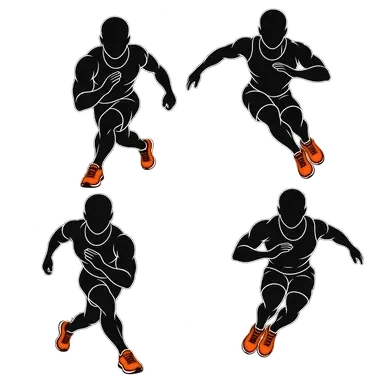
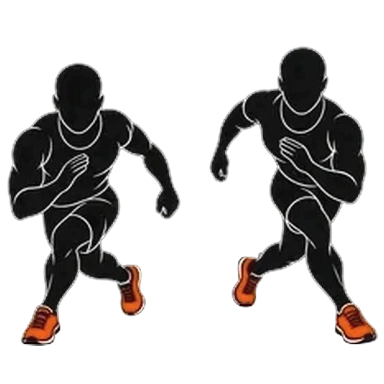
Suche: Kategorie-Chips und Zwischenüberschriften im Übungs- und Workoutkatalog; Skater Jumps und Jump Lunges auf zwei Posen gekürzt (Fassung 2026-10-31-3)

diff --git a/js/05-suche.js b/js/05-suche.js
@@ -8,7 +8,7 @@ var suchKat = "alle", suchZonen = [], suchKoerperAuf = false;   // Körper-Filte
 /* Filter der Suche (Karte wie beim Bauen eines Workouts, Bild oben entfällt): dieselben Attribute und dieselbe Logik wie im Workout-Filter (studioFilterHTML): Trainingsart (studio | cali | body, TRAIN_ARTEN)
    und Ausrüstung (AUSR_IDS), jeweils Mehrfachwahl, leer = alles. Bewusst nur im Speicher (suchTrain/suchAusr) und NICHT in settings.stTrain/stAusr,
    damit eine Suche den Filter im Workout-Bereich nicht verstellt. Die Chips sind kompakt (Text statt Fotokarten). */
-var suchTrain = [], suchAusr = [];
+var suchTrain = [], suchAusr = [], suchLib = [];   // suchLib: Kategorie-Chips (LIB_CATS) im Übungs- und Workoutkatalog, wie beim Bauen eines BLOCs
 var SUCH_KATEGORIEN = ["alle", "uebungen", "workouts", "timer", "bereiche", "erstellen"];
 function suchKategorie(gruppe){
   if(gruppe === t("libExercises")) return "uebungen";
@@ -39,12 +39,14 @@ function gesamtEintraege(){
     add(t("workouts"), tplText(lw.name), t("exCount", { n:exs.length })+" · "+fmtDauerKurz(workoutDuration(libWorkoutRun(lw))), woSearchText("", exs), function(){ go("#cover/lib/"+lw.id); });
     if(!libIstWarmDehn(lw)){ l[l.length-1].welt = katWoOrt(exs); }   // Freiluft blau, Fitnessstudio orange (Aufwärmen und Dehnen gehören zu Mobility & Stretch)
     l[l.length-1].exs = exs.map(function(ex){ return ex.id; });   // für den Ausrüstungs-Filter
+    l[l.length-1].cat = lw.focus;
   });
   (state.db.myWorkouts || []).map(normMy).forEach(function(mw){
     var exs = mw.items.map(function(it){ return findExercise(it.ex); }).filter(Boolean);
     add(t("mineMy"), mw.name, t("exCount", { n:exs.length }), woSearchText("", exs), function(){ go("#mybuild/"+mw.id); });
     if(!mw.ws){ l[l.length-1].welt = katWoOrt(exs); }
     l[l.length-1].exs = exs.map(function(ex){ return ex.id; });
+    l[l.length-1].cat = "mix";
   });
   // Übungen
   EXERCISES.forEach(function(ex){
@@ -54,6 +56,7 @@ function gesamtEintraege(){
       else go(ex.custom ? "#exedit/"+ex.id : "#playex/"+ex.id);
     });
     l[l.length-1].ex = ex.id;   // für den Körper-Filter der Suche
+    l[l.length-1].cat = ex.cats[0];
   });
   // Timer-Workouts und Blöcke
   state.db.workouts.forEach(function(w){ add(t("mineTimer"), w.name || t("untitled"), "", "", function(){ go("#workout/"+w.id); }); });
@@ -79,6 +82,7 @@ function renderSearch(){
   var alle = gesamtEintraege();
   suchZonen = kkNorm(suchZonen);   // nach dem Umschalten der Detailansicht passen
   /* Trefferliste nach Kategorie, Filter und Suchwort (ohne Suchwort zeigt eine gewählte Kategorie oder ein Filter alle passenden Einträge) */
+  function katalogIst(){ return suchKat === "uebungen" || suchKat === "workouts"; }
   function gewaehltIst(){ return suchKat !== "alle" || suchZonen.length > 0 || suchTrain.length > 0 || suchAusr.length > 0; }
   function filtern(){
     var w = suchNorm(gesamtQuery), zon = suchZonen.length > 0, tr = suchTrain.length > 0, au = suchAusr.length > 0;
@@ -98,6 +102,7 @@ function renderSearch(){
         }
         else return false;
       }
+      if(suchLib.length && katalogIst() && (e.ex ? !findExercise(e.ex).cats.some(function(c){ return suchLib.indexOf(c) > -1; }) : (e.exs ? suchLib.indexOf(e.cat) < 0 : true))) return false;
       return (suchKat === "alle" || e.k === suchKat) && (!w || suchPasst(e.text, gesamtQuery));
     });
   }
@@ -106,6 +111,7 @@ function renderSearch(){
     '<div class="lib-chips sr-kats">'+SUCH_KATEGORIEN.map(function(k){
       return '<button type="button" class="lib-chip'+(suchKat === k ? ' active' : '')+'" data-srkat="'+k+'" aria-pressed="'+(suchKat === k)+'">'+esc(t("srKat_"+k))+'</button>';
     }).join("")+'</div>'+
+    (katalogIst() ? catChipsHTML(suchLib, "data-srlib") : '')+
     suchFilterKarteHTML(filtern().length)+
     searchHTML(gesamtQuery, "gs", t("srPh")) +
     tippZeileHTML("suche", "tippUebung")+'<div id="gs-res"></div><div style="height:40px"></div>';
@@ -121,10 +127,18 @@ function renderSearch(){
     // je Gruppe zuerst die Treffer im Namen, danach die über Übungen/Hinweise (stabil)
     treffer = treffer.map(function(e, i){ return { e:e, i:i }; }).sort(function(a, b){
       return reihe.indexOf(a.e.g) - reihe.indexOf(b.e.g) || a.e.n - b.e.n || a.i - b.i; }).map(function(o){ return o.e; });
-    var kacheln = "", zeilen = "";   // Air-, Studio- und Dehnübungen erscheinen als quadratische Kacheln wie unter Air › Übungen (zuerst), alles andere als Zeile
+    /* Im Übungs- und Workoutkatalog ohne Suchwort: je Kategorie (Cardio, Gewicht, Bodyweight …) unter einer Zwischenüberschrift, Reihenfolge wie die Kategorie-Chips */
+    var unter = katalogIst() && !w && suchLib.length !== 1;
+    if(unter){
+      var rang = function(e){ var r = LIB_CATS.map(function(c){ return c.id; }).indexOf(e.cat); return r < 0 ? 99 : r; };
+      treffer = treffer.map(function(e, i){ return { e:e, i:i }; }).sort(function(a, b){
+        return reihe.indexOf(a.e.g) - reihe.indexOf(b.e.g) || rang(a.e) - rang(b.e) || a.i - b.i; }).map(function(o){ return o.e; });
+    }
+    var kacheln = "", zeilen = "", katAlt = null;   // Air-, Studio- und Dehnübungen erscheinen als quadratische Kacheln wie unter Air › Übungen (zuerst), alles andere als Zeile
     function raster(){ if(kacheln) html += '<div class="fig-grid">'+kacheln+'</div>'; html += zeilen; kacheln = ""; zeilen = ""; }
     treffer.forEach(function(e, i){
-      if(e.g !== gruppe){ raster(); gruppe = e.g; n = 0; html += '<div class="section-title">'+esc(gruppe)+'</div>'; }
+      if(e.g !== gruppe){ raster(); gruppe = e.g; n = 0; katAlt = null; html += '<div class="section-title">'+esc(gruppe)+'</div>'; }
+      if(unter && e.cat !== katAlt){ raster(); katAlt = e.cat; html += '<div class="sr-unter">'+esc(catName(e.cat))+'</div>'; }
       if(!gewaehlt && ++n > 12) return;   // je Gruppe die ersten zwölf; genauer tippen grenzt ein (mit gewählter Kategorie alle)
       var ex = e.ex && findExercise(e.ex);
       if(ex && (fuerAir(ex) || ex.main === "stretch") && ILLU[ex.id]){ kacheln += ex.main === "stretch" ? '<div style="display:contents;--bereich:var(--ws-color)">'+libExKachel(ex)+'</div>' : libExKachel(ex); return; }   // Dehnübungen in der Farbe von Mobility & Stretch
@@ -162,15 +176,15 @@ function renderSearch(){
   feld.addEventListener("input", function(){ gesamtQuery = feld.value; zeigen(); });
   app.querySelectorAll("[data-srkat]").forEach(function(b){
     b.addEventListener("click", function(){
-      suchKat = b.getAttribute("data-srkat");
-      app.querySelectorAll("[data-srkat]").forEach(function(x){ var an = x === b; x.classList.toggle("active", an); x.setAttribute("aria-pressed", String(an)); });
-      zeigen();
+      suchKat = b.getAttribute("data-srkat"); suchLib = [];
+      renderSearch();   // die Kategorie-Chips des Katalogs kommen und gehen mit der Auswahl
     });
   });
   // Filterkarte: auf/zu, zurücksetzen, Trainingsart, Ausrüstung, Muskel (Chips und Figur); nach jedem Antippen neu zeichnen wie beim Workout-Filter
   app.querySelectorAll("[data-srtoggle]").forEach(function(b){ b.addEventListener("click", function(){ suchFilterAuf = !suchFilterAuf; renderSearch(); }); });
   var zur = app.querySelector("[data-srreset]");
   if(zur) zur.addEventListener("click", function(){ suchTrain = []; suchAusr = []; suchZonen = []; renderSearch(); });
+  app.querySelectorAll("[data-srlib]").forEach(function(b){ b.addEventListener("click", function(){ var c = b.getAttribute("data-srlib"); suchLib = c === "all" ? [] : selToggle(suchLib, c); renderSearch(); }); });
   app.querySelectorAll("[data-srtrain]").forEach(function(b){ b.addEventListener("click", function(){ suchTrain = selToggle(suchTrain, b.getAttribute("data-srtrain")); renderSearch(); }); });
   app.querySelectorAll("[data-srausr]").forEach(function(b){ b.addEventListener("click", function(){ suchAusr = selToggle(suchAusr, b.getAttribute("data-srausr")); renderSearch(); }); });
   app.querySelectorAll("[data-srzone]").forEach(function(b){ b.addEventListener("click", function(){ suchZonen = selToggle(suchZonen, b.getAttribute("data-srzone")); renderSearch(); }); });

diff --git a/figuren-pruefliste.html b/figuren-pruefliste.html
@@ -13,8 +13,8 @@
 <meta name="apple-mobile-web-app-status-bar-style" content="black-translucent">
 <meta name="apple-mobile-web-app-title" content="BLOC">
 <!-- ?v= gehört zu FASSUNG in sw.js: bei jeder neuen Fassung beide ändern -->
-<link rel="stylesheet" href="./app.css?v=2026-10-31-2">
-<link rel="stylesheet" href="./layout-new.css?v=2026-10-31-2">
+<link rel="stylesheet" href="./app.css?v=2026-10-31-3">
+<link rel="stylesheet" href="./layout-new.css?v=2026-10-31-3">
 </head>
 <style>
 body{ background:#16161a; color:#eee; font:14px/1.4 system-ui,sans-serif; padding:12px; }
@@ -42,34 +42,34 @@ h1{ font-size:20px; margin:4px 0 2px; } .sub{ color:#aaa; margin-bottom:12px; }
 </head>
 <body>
 <div id="app"></div><div id="playerRoot"></div><div id="overlayRoot"></div><nav id="tabbar" class="tabbar hidden"></nav>
-<script src="./texte.js?v=2026-10-31-2"></script>
-<script src="./daten.js?v=2026-10-31-2"></script>
-<script src="./faq.js?v=2026-10-31-2"></script>
-<script src="./js/00-native.js?v=2026-10-31-2"></script>
-<script src="./js/01-basis.js?v=2026-10-31-2"></script>
-<script src="./js/02-bibliothek.js?v=2026-10-31-2"></script>
-<script src="./js/03-router.js?v=2026-10-31-2"></script>
-<script src="./js/04-start.js?v=2026-10-31-2"></script>
-<script src="./js/05-suche.js?v=2026-10-31-2"></script>
-<script src="./js/06-timer-listen.js?v=2026-10-31-2"></script>
-<script src="./js/07-studio.js?v=2026-10-31-2"></script>
-<script src="./js/08-koerperkarte.js?v=2026-10-31-2"></script>
-<script src="./js/09-studio-karte.js?v=2026-10-31-2"></script>
-<script src="./js/10-gemeinsam.js?v=2026-10-31-2"></script>
-<script src="./js/11-bibliothek-seite.js?v=2026-10-31-2"></script>
-<script src="./js/11b-katalog.js?v=2026-10-31-2"></script>
-<script src="./js/12-uebung-statistik.js?v=2026-10-31-2"></script>
-<script src="./js/13-teilen-editor.js?v=2026-10-31-2"></script>
-<script src="./js/14-einfuehrung-sicherung.js?v=2026-10-31-2"></script>
-<script src="./js/16-lauf.js?v=2026-10-31-2"></script>
-<script src="./js/17-aufwaermen-einstellungen.js?v=2026-10-31-2"></script>
-<script src="./js/18-audio.js?v=2026-10-31-2"></script>
-<script src="./js/19-timer-motor.js?v=2026-10-31-2"></script>
-<script src="./js/19a-kalender.js?v=2026-10-31-2"></script>
-<script src="./js/20-walzen-start.js?v=2026-10-31-2"></script>
-<script src="./js/21-koerper.js?v=2026-10-31-2"></script>
-<script src="./js/22-satz-training.js?v=2026-10-31-2"></script>
-<script src="./js/23-protein.js?v=2026-10-31-2"></script>
+<script src="./texte.js?v=2026-10-31-3"></script>
+<script src="./daten.js?v=2026-10-31-3"></script>
+<script src="./faq.js?v=2026-10-31-3"></script>
+<script src="./js/00-native.js?v=2026-10-31-3"></script>
+<script src="./js/01-basis.js?v=2026-10-31-3"></script>
+<script src="./js/02-bibliothek.js?v=2026-10-31-3"></script>
+<script src="./js/03-router.js?v=2026-10-31-3"></script>
+<script src="./js/04-start.js?v=2026-10-31-3"></script>
+<script src="./js/05-suche.js?v=2026-10-31-3"></script>
+<script src="./js/06-timer-listen.js?v=2026-10-31-3"></script>
+<script src="./js/07-studio.js?v=2026-10-31-3"></script>
+<script src="./js/08-koerperkarte.js?v=2026-10-31-3"></script>
+<script src="./js/09-studio-karte.js?v=2026-10-31-3"></script>
+<script src="./js/10-gemeinsam.js?v=2026-10-31-3"></script>
+<script src="./js/11-bibliothek-seite.js?v=2026-10-31-3"></script>
+<script src="./js/11b-katalog.js?v=2026-10-31-3"></script>
+<script src="./js/12-uebung-statistik.js?v=2026-10-31-3"></script>
+<script src="./js/13-teilen-editor.js?v=2026-10-31-3"></script>
+<script src="./js/14-einfuehrung-sicherung.js?v=2026-10-31-3"></script>
+<script src="./js/16-lauf.js?v=2026-10-31-3"></script>
+<script src="./js/17-aufwaermen-einstellungen.js?v=2026-10-31-3"></script>
+<script src="./js/18-audio.js?v=2026-10-31-3"></script>
+<script src="./js/19-timer-motor.js?v=2026-10-31-3"></script>
+<script src="./js/19a-kalender.js?v=2026-10-31-3"></script>
+<script src="./js/20-walzen-start.js?v=2026-10-31-3"></script>
+<script src="./js/21-koerper.js?v=2026-10-31-3"></script>
+<script src="./js/22-satz-training.js?v=2026-10-31-3"></script>
+<script src="./js/23-protein.js?v=2026-10-31-3"></script>
 <script>
 /* Figuren-Prüfliste: alle Übungen mit ihren Figuren (Pose A und B, zweite Ansicht); gelb = unsicher, rot = bekannt unzureichend (noch offen) */
 var UNSICHER = {

diff --git a/index.html b/index.html
@@ -13,8 +13,8 @@
 <meta name="apple-mobile-web-app-status-bar-style" content="black-translucent">
 <meta name="apple-mobile-web-app-title" content="BLOC">
 <!-- ?v= gehört zu FASSUNG in sw.js: bei jeder neuen Fassung beide ändern -->
-<link rel="stylesheet" href="./app.css?v=2026-10-31-2">
-<link rel="stylesheet" href="./layout-new.css?v=2026-10-31-2">
+<link rel="stylesheet" href="./app.css?v=2026-10-31-3">
+<link rel="stylesheet" href="./layout-new.css?v=2026-10-31-3">
 </head>
 <body>
 <div class="glas-bg" aria-hidden="true"><i></i></div>
@@ -23,33 +23,33 @@
 <div id="overlayRoot"></div>
 <nav id="tabbar" class="tabbar hidden" aria-label="Navigation"></nav>
 
-<script src="./texte.js?v=2026-10-31-2"></script>
-<script src="./daten.js?v=2026-10-31-2"></script>
-<script src="./fotos.js?v=2026-10-31-2"></script>
-<script src="./faq.js?v=2026-10-31-2"></script>
-<script src="./js/01-basis.js?v=2026-10-31-2"></script>
-<script src="./js/02-bibliothek.js?v=2026-10-31-2"></script>
-<script src="./js/03-router.js?v=2026-10-31-2"></script>
-<script src="./js/04-start.js?v=2026-10-31-2"></script>
-<script src="./js/05-suche.js?v=2026-10-31-2"></script>
-<script src="./js/06-timer-listen.js?v=2026-10-31-2"></script>
-<script src="./js/07-studio.js?v=2026-10-31-2"></script>
-<script src="./js/08-koerperkarte.js?v=2026-10-31-2"></script>
-<script src="./js/09-studio-karte.js?v=2026-10-31-2"></script>
-<script src="./js/10-gemeinsam.js?v=2026-10-31-2"></script>
-<script src="./js/11-bibliothek-seite.js?v=2026-10-31-2"></script>
-<script src="./js/11b-katalog.js?v=2026-10-31-2"></script>
-<script src="./js/12-uebung-statistik.js?v=2026-10-31-2"></script>
-<script src="./js/13-teilen-editor.js?v=2026-10-31-2"></script>
-<script src="./js/14-einfuehrung-sicherung.js?v=2026-10-31-2"></script>
-<script src="./js/16-lauf.js?v=2026-10-31-2"></script>
-<script src="./js/17-aufwaermen-einstellungen.js?v=2026-10-31-2"></script>
-<script src="./js/18-audio.js?v=2026-10-31-2"></script>
-<script src="./js/19-timer-motor.js?v=2026-10-31-2"></script>
-<script src="./js/19a-kalender.js?v=2026-10-31-2"></script>
-<script src="./js/20-walzen-start.js?v=2026-10-31-2"></script>
-<script src="./js/21-koerper.js?v=2026-10-31-2"></script>
-<script src="./js/22-satz-training.js?v=2026-10-31-2"></script>
-<script src="./js/23-protein.js?v=2026-10-31-2"></script>
+<script src="./texte.js?v=2026-10-31-3"></script>
+<script src="./daten.js?v=2026-10-31-3"></script>
+<script src="./fotos.js?v=2026-10-31-3"></script>
+<script src="./faq.js?v=2026-10-31-3"></script>
+<script src="./js/01-basis.js?v=2026-10-31-3"></script>
+<script src="./js/02-bibliothek.js?v=2026-10-31-3"></script>
+<script src="./js/03-router.js?v=2026-10-31-3"></script>
+<script src="./js/04-start.js?v=2026-10-31-3"></script>
+<script src="./js/05-suche.js?v=2026-10-31-3"></script>
+<script src="./js/06-timer-listen.js?v=2026-10-31-3"></script>
+<script src="./js/07-studio.js?v=2026-10-31-3"></script>
+<script src="./js/08-koerperkarte.js?v=2026-10-31-3"></script>
+<script src="./js/09-studio-karte.js?v=2026-10-31-3"></script>
+<script src="./js/10-gemeinsam.js?v=2026-10-31-3"></script>
+<script src="./js/11-bibliothek-seite.js?v=2026-10-31-3"></script>
+<script src="./js/11b-katalog.js?v=2026-10-31-3"></script>
+<script src="./js/12-uebung-statistik.js?v=2026-10-31-3"></script>
+<script src="./js/13-teilen-editor.js?v=2026-10-31-3"></script>
+<script src="./js/14-einfuehrung-sicherung.js?v=2026-10-31-3"></script>
+<script src="./js/16-lauf.js?v=2026-10-31-3"></script>
+<script src="./js/17-aufwaermen-einstellungen.js?v=2026-10-31-3"></script>
+<script src="./js/18-audio.js?v=2026-10-31-3"></script>
+<script src="./js/19-timer-motor.js?v=2026-10-31-3"></script>
+<script src="./js/19a-kalender.js?v=2026-10-31-3"></script>
+<script src="./js/20-walzen-start.js?v=2026-10-31-3"></script>
+<script src="./js/21-koerper.js?v=2026-10-31-3"></script>
+<script src="./js/22-satz-training.js?v=2026-10-31-3"></script>
+<script src="./js/23-protein.js?v=2026-10-31-3"></script>
 </body>
 </html>

diff --git a/sw.js b/sw.js
@@ -7,7 +7,7 @@
  */
 
 /* Einzige Stelle für die Versionsnummer - die App fragt sie per postMessage ab (Einstellungen, ganz unten) */
-var FASSUNG = "2026-10-31-2";
+var FASSUNG = "2026-10-31-3";
 var NETZ_WARTEN = 2500;   // ms - so lange wartet der Start höchstens aufs Netz, wenn es eine gespeicherte Fassung gibt
 var SPEICHER = "sporttimer-" + FASSUNG;
 var GRUNDGERUEST = ["./", "./index.html", "./texte.js", "./quellen.html", "./daten.js", "./fotos.js", "./faq.js", "./js/01-basis.js", "./js/02-bibliothek.js", "./js/03-router.js", "./js/04-start.js", "./js/05-suche.js", "./js/06-timer-listen.js", "./js/07-studio.js", "./js/08-koerperkarte.js", "./js/09-studio-karte.js", "./js/10-gemeinsam.js", "./js/11-bibliothek-seite.js", "./js/11b-katalog.js", "./js/12-uebung-statistik.js", "./js/13-teilen-editor.js", "./js/14-einfuehrung-sicherung.js", "./js/16-lauf.js", "./js/17-aufwaermen-einstellungen.js", "./js/18-audio.js", "./js/19-timer-motor.js", "./js/19a-kalender.js", "./js/20-walzen-start.js", "./js/21-koerper.js", "./js/22-satz-training.js", "./js/23-protein.js", "./img/neu-protein.jpg", "./app.css", "./layout-new.css", "./img/neu-workout.jpg", "./img/neu-mobility.jpg", "./img/neu-timer.jpg", "./img/neu-run.jpg", "./img/neu-builder.webp", "./img/neu-kopf.jpg", "./img/neu-kopf-hell.jpg", "./img/neu-kopf-hell-meer.jpg", "./img/neu-h-halle.jpg", "./img/neu-h-kettlebell.jpg", "./img/neu-h-dehnen.jpg", "./img/neu-d-kalender.jpg", "./img/neu-d-katalog.jpg", "./img/neu-run-bg.jpg", "./img/neu-p-freiluft-meer.jpg", "./img/neu-faq.jpg", "./img/neu-freiluft.jpg", "./img/neu-p-freiluft-meer.jpg", "./img/neu-p-liegestuetz-strand.jpg", "./img/neu-p-liegestuetz-stadt.jpg", "./img/neu-p-studio-hantelreihe.jpg", "./img/neu-p-studio-gewichtsblock.jpg", "./img/neu-p-studio-halle.jpg", "./img/neu-p-frau-latzug.jpg", "./img/neu-p-timer-box.jpg", "./img/neu-p-frau-klimmzug.jpg", "./img/neu-p-frau-kniebeuge.jpg", "./img/neu-p-liegestuetz-feld.jpg", "./img/neu-p-mobility-ausfall.jpg", "./img/neu-p-mobility-sitz.jpg", "./img/neu-p-run-licht.jpg", "./img/neu-p-run-strasse.jpg", "./img/neu-p-run-sw.jpg", "./img/neu-p-freiluft-leiter.jpg", "./manifest.json", "./icon.png", "./icon-180.png", "./privacy.html", "./img/ort-fitnessstudio.jpg", "./img/ort-freiluft.jpg", "./img/start-halle.jpg", "./img/bereich-run.jpg", "./img/bereich-suche.jpg"];

diff --git a/app.css b/app.css
@@ -2297,3 +2297,7 @@ details[open] > summary > .pg-pfeil{ transform:rotate(180deg); }
 .foto-box img{ display:block; width:100%; height:auto; aspect-ratio:1; object-fit:contain; border-radius:12px; }
 .foto-name{ margin-top:8px; text-align:center; font-size:14px; font-weight:600; color:var(--text); }
 .foto-x{ position:absolute; top:6px; right:6px; width:44px; height:44px; border-radius:50%; border:0; background:var(--surface-2); color:var(--text); font-size:24px; line-height:1; cursor:pointer; }
+
+/* Suche: Zwischenüberschrift je Kategorie im Übungs- und Workoutkatalog */
+.sr-unter{ font-size:15px; font-weight:700; color:var(--text); margin:18px 4px 8px; display:flex; align-items:center; gap:8px; }
+.sr-unter::after{ content:""; flex:1; height:1px; background:var(--line, rgba(128,128,128,.25)); }

diff --git a/VERLAUF.md b/VERLAUF.md
@@ -3,6 +3,11 @@
 Kurze Notizen zu den **letzten Änderungen** (ab 2026-10-05), jeweils mit der Fassung. Ältere Einträge stehen im
 [Archiv](docs/VERLAUF-Archiv.md). Den **aktuellen** Stand beschreibt die [README](README.md).
 
+## 2026-10-31 · Katalog-Suche nach Kategorien, Bilder gekürzt (Fassung 2026-10-31-3)
+
+- **Suche:** Im Übungs- und im Workoutkatalog gibt es unter den Kategorien dieselben Kategorie-Chips wie beim Bauen eines BLOCs (Alle · Cardio · Gewicht · Bodyweight · Rücken · Beine · Bauch / Core · Arme · Calisthenics · Dehnen). Ohne Suchwort und ohne einzelne Kategorie stehen die Treffer unter Zwischenüberschriften je Kategorie.
+- **Bilder:** Skater Jumps und Jump Lunges zeigen nur noch die zwei gewünschten Posen (die beiden anderen sind entfernt, neu zugeschnitten auf 384 × 384).
+
 ## 2026-10-31 · Bilder als Umschalter, Suche mit Filterkarte (Fassung 2026-10-31-2)
 
 - **Info-Fenster:** Statt der kleinen Kachel gibt es einen Umschalter **Figur | Bild** über der Bühne. Das Bild ersetzt die Strichfigur in voller Breite, die Wahl merkt sich die App (`settings.infoBild`). Die Karte hinter dem Bild folgt dem Thema (dunkel im Dark Mode, weiß im Light Mode), die Bilder selbst sind transparent. Tippen auf das Bild zeigt es größer. Ohne Bild gibt es keinen Umschalter.
